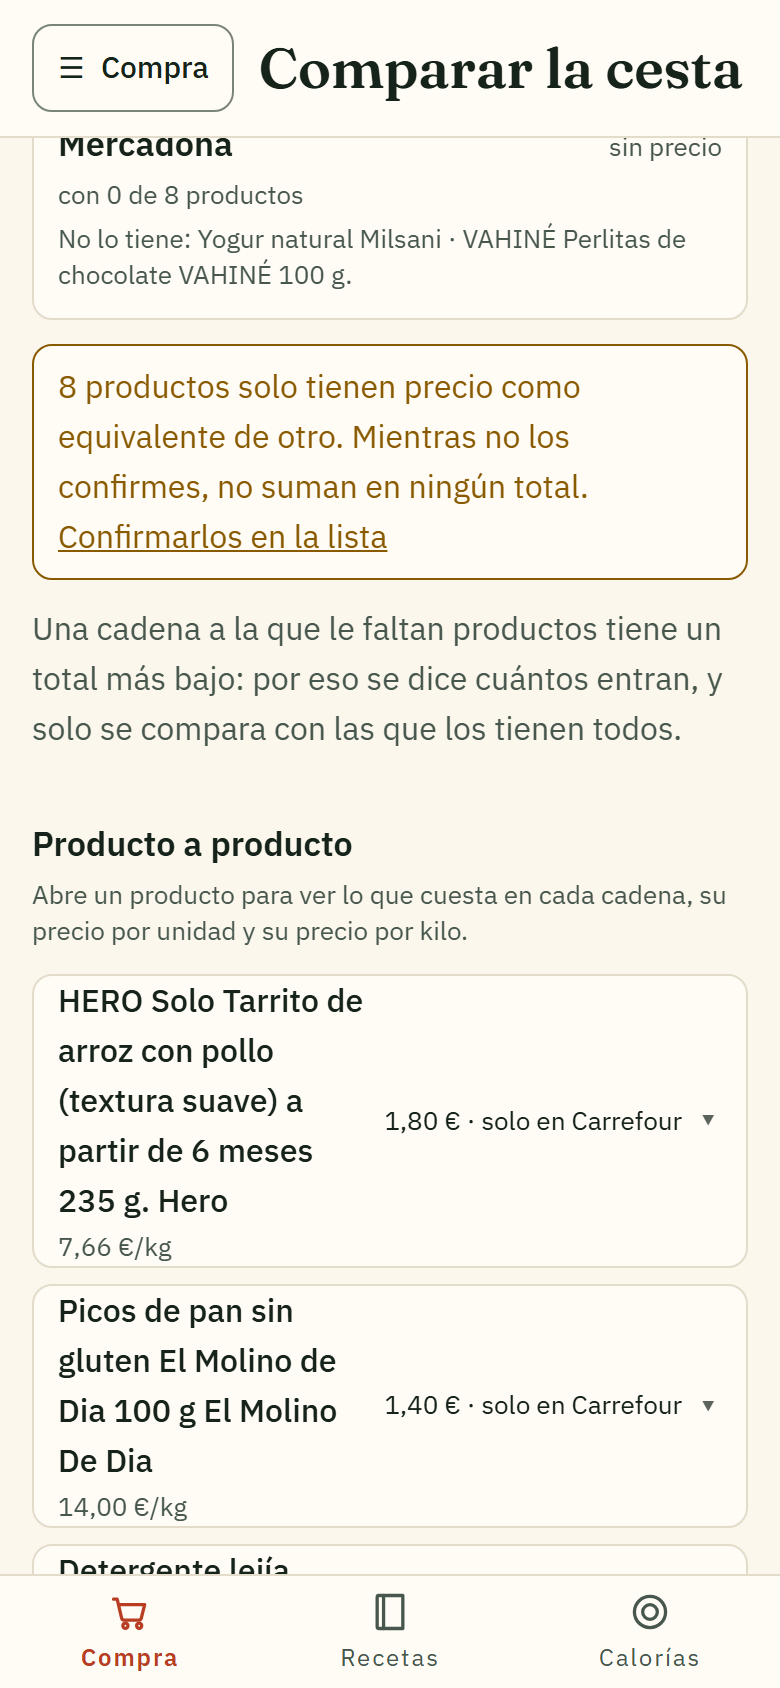
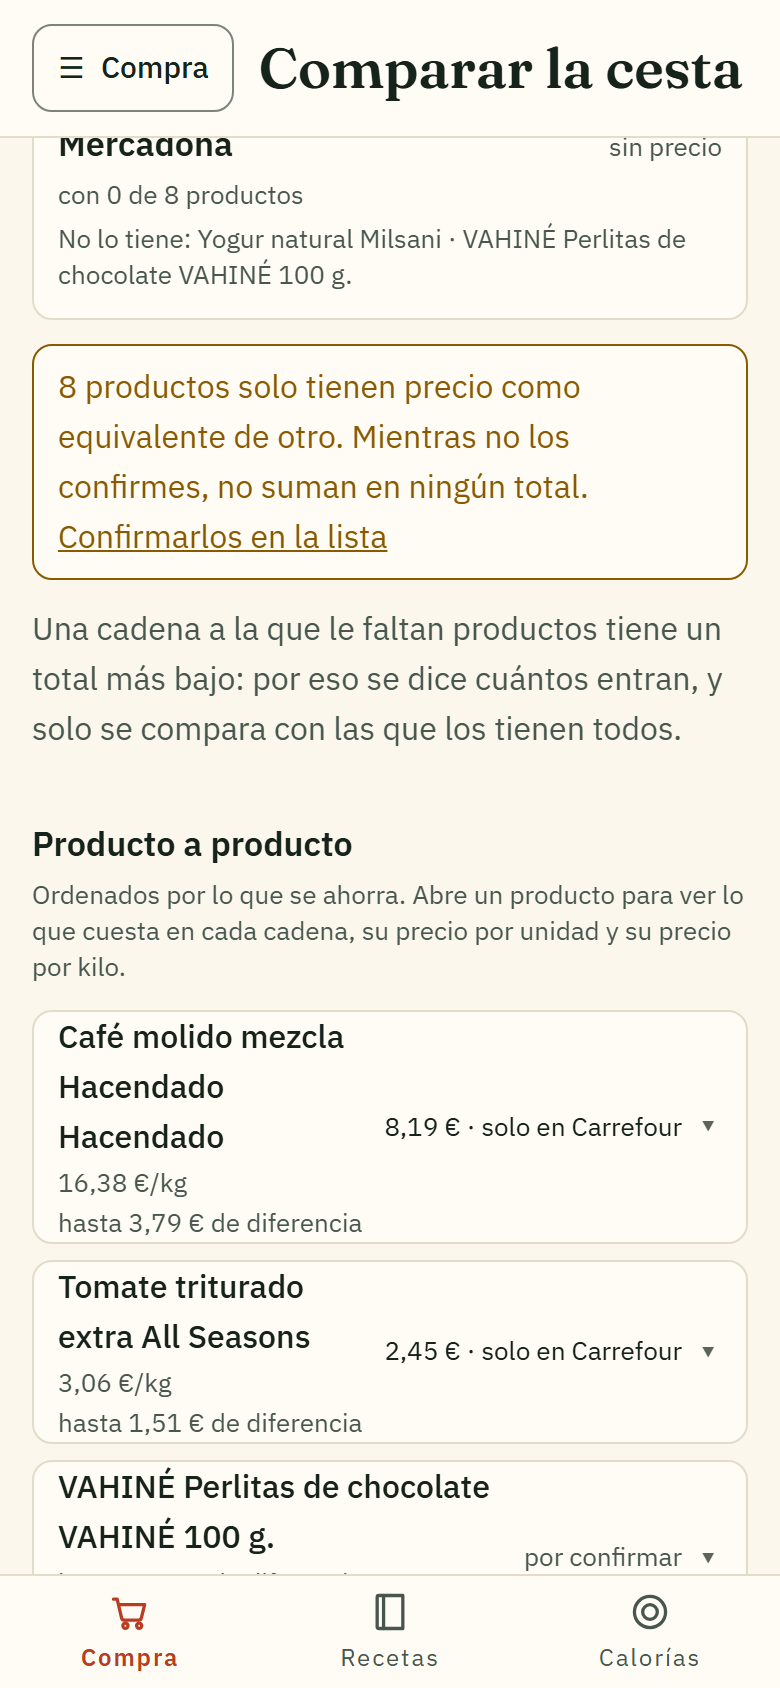
Portfolio: capturas regeneradas con el formato y el orden por ahorro

diff --git a/PORTFOLIO.md b/PORTFOLIO.md
@@ -27,7 +27,7 @@ sin inventar precios, sin contar ofertas condicionadas como descuento real y sin
 | **Calidad de datos** | Identidad por EAN, reglas de unidad, guardas de cobertura y avisos | Precisión del emparejamiento **91,1 %** medida sobre **4.804 pares** con verdad de código de barras; EAN en el **48,5 %** del catálogo; cada cadena declara filas, referencia, huecos y veredicto |
 | **Análisis de competencia** | Qué hacen Soysuper, Idealo, CamelCamelCamel, Lidl Plus, Mercadona y Yuka; qué se copia y qué no | `INVESTIGACION-APP.md`, `docs/COMPETENCIA.md` |
 | **Requisitos y decisiones** | Alcance, especificación maestra, backlog y decisiones escritas con su porqué | `ALCANCE-APP.md`, `docs/SUPERAPP-ESPECIFICACION-MAESTRA-2026-10-18.md`, `DECISIONES.md`, `docs/decisiones-interfaz-2026-11-09.md` |
-| **Del dato a la decisión** | Comparativa de cesta con ahorro, €/unidad y mínimo visto | En la compra de ejemplo (8 productos): **6,78 € de ahorro posible (−28 %)** frente a la cadena más cara; €/l y €/kg en cada línea; «En su mínimo · 3,87 €» |
+| **Del dato a la decisión** | Comparativa de cesta con ahorro, €/unidad y mínimo visto | En la compra de ejemplo (8 productos): **6,78 € de ahorro posible (−28 %)** frente a la cadena más cara; productos **ordenados por lo que se ahorra** (hasta **3,79 € de diferencia** en un mismo producto); €/l y €/kg en cada línea; «En su mínimo · 3,87 €» |
 | **Verificación, no confianza** | Pruebas automáticas, puertas de navegador y arranque reproducible | **1.502 pruebas** Python en verde, **269** de componentes web, **404** de lógica JS; recorrido de punta a punta **11/11** sin errores de consola |
 
 **Cómo se ve la comparación honesta.** El ahorro grande es la suma, línea a línea, de lo que
@@ -43,7 +43,7 @@ en su **mínimo histórico** se marca. Nada de «0,00 €» cuando falta un dato
 | ![Portada](docs/portfolio/00-portada.png) | ![Lista](docs/portfolio/01-lista.png) |
 | **Portada.** Qué cuesta la cesta, en qué cadena y qué se ha movido. | **La lista.** Precio estimado, productos por pasillo y sugerencias. |
 | ![Comparativa](docs/portfolio/02-comparativa.png) | ![Producto a producto](docs/portfolio/02b-productos.png) |
-| **Comparativa.** Ahorro grande, desglose y barra por cadena. | **Producto a producto.** €/unidad en cada cadena y marca de mínimo. |
+| **Comparativa.** Ahorro grande, desglose y barra por cadena; productos ordenados por ahorro. | **Producto a producto.** €/unidad en cada cadena, «hasta X € de diferencia» y marca de mínimo. |
 | ![Sugerencias](docs/portfolio/03-sugerencias.png) | ![Exportar](docs/portfolio/04-exportar.png) |
 | **Sugerencias.** «Lo de siempre» y repetir la compra anterior con lo que falta. | **Exportar.** La lista a CSV (también copiar como texto). |
 
